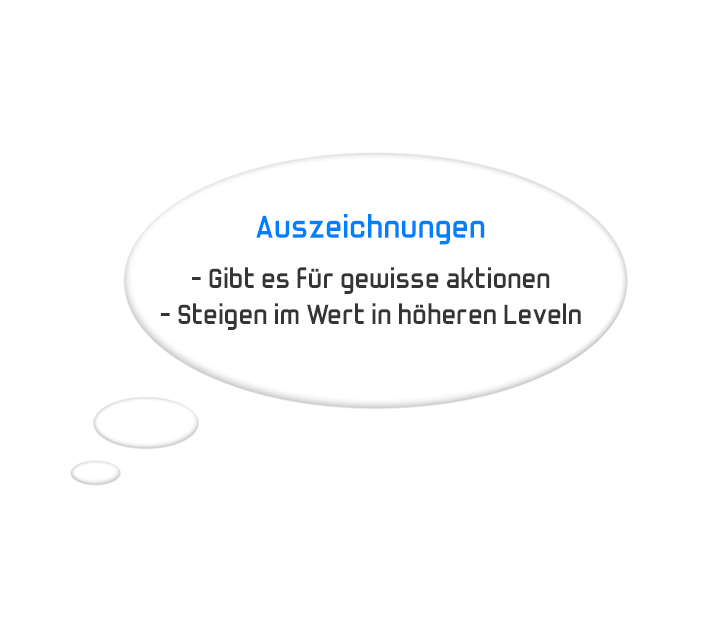
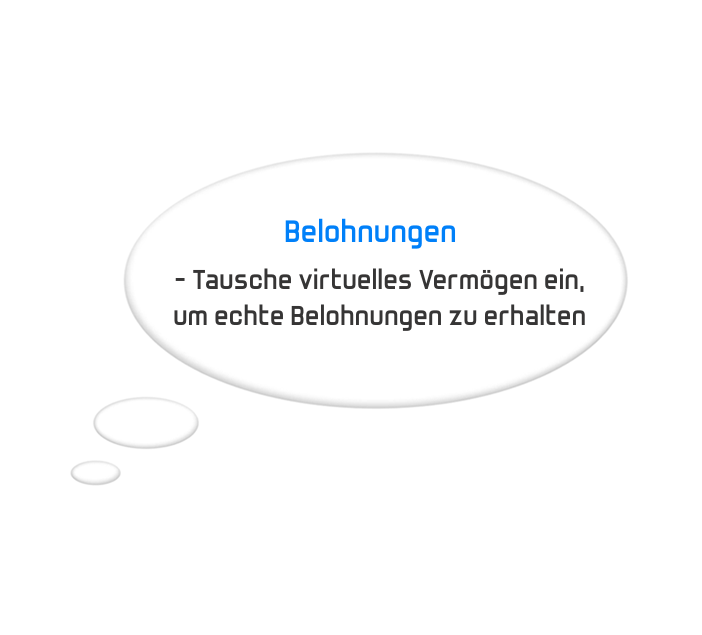
@Khushi Rewards IntroText added, Help text and bubble image managed.

Changed region(s): [[0.2393, 0.4189, 0.8376, 0.5386], [0.359, 0.3291, 0.688, 0.389]]

diff --git a/lib/helper/string_res.dart b/lib/helper/string_res.dart
@@ -2051,7 +2051,7 @@ class StringRes {
       'strAchievement':
       "- Achievements are earned by completing certain task\n- Achievements pay extra Knowledge Points if you reach a new level",
       'strReward':
-      "- Rewards are earned by completing certain task\n- Rewards pay extra Knowledge Points if you reach a new level",
+      "- Redeem Knowledge Points to receive real world rewards",
       'strTeam':
       "- list of your direct reports\n- high level reporting and KPI\n- Allow bailout / reset",
       'strChallenges':
@@ -2485,7 +2485,7 @@ class StringRes {
       'strAchievement':
       "- Gibt es für gewisse Aktionen\n- Steigen im Wert in höheren Leveln",
       'strReward':
-      "- Gibt es für gewisse Aktionen\n- Steigen im Wert in höheren Leveln",
+      "- Tausche Wissenspunkte ein, um echte Belohnungen zu erhalten",
       'strTeam':
       "- Liste der Mitarbeiter im Team\n- Basis Reporting und KPIs\n- Neustarts gewähren",
       'strChallenges':
@@ -2880,7 +2880,7 @@ class StringRes {
       "- 寻找新的问题来回答\n- 每个问题都需要可用的学习和记忆点数\n- 如果您答对了问题，问题重复的次数就会增加",
       'strExistingCustomer': "- 复习您所有正确回答的问题\n- 如果您答对了问题，问题重复的次数就会增加",
       'strAchievement': "- 通过完成某些任务获得奖励\n- 如果您达到新的级别，您将获得额外的知识点数奖励",
-      'strReward': "- 通过完成某些任务获得奖励\n- 如果您达到新的级别，您将获得额外的知识点数奖励",
+      'strReward': "- 兑换知识点数以获得真实世界的奖赏",
       'strTeam': "- 您的直接下属名单\n- 高级别报告和KPI\n- 允许纾困/重置",
       'strChallenges':
       "- 挑战好友\n- 选择%价值，确定问题的数量#和奖励\n- 增加% = 增加要回答的问题的数量\n- 更高％ = 如果对手赢了，他可以赢得更多，如果他输了，您赢得更少",

diff --git a/lib/dialogs/display_dailogs.dart b/lib/dialogs/display_dailogs.dart
@@ -616,8 +616,8 @@ class DisplayDialogs {
         });
   }
 
-  //todo This dialogs only for Reward screen
-  static showIntroRewards(BuildContext context) async {
+  //todo This dialogs only for Achievement screen
+  static showIntroAchievement(BuildContext context) async {
     await Future.delayed(Duration(milliseconds: 50));
     showDialog(
         context: context,
@@ -634,6 +634,29 @@ class DisplayDialogs {
               Navigator.pop(context);
 
               Injector.introData.rewards = 1;
+              await Injector.setIntroData(Injector.introData);
+            },
+          );
+        });
+  }
+
+  static showIntroRewards(BuildContext context) async {
+    await Future.delayed(Duration(milliseconds: 50));
+    showDialog(
+        context: context,
+        builder: (BuildContext context) {
+          return IntroScreenDialog(
+            menuView: false,
+            imageName: "john",
+            titleText: Utils.getText(context, StringRes.rewards),
+            btnName: Utils.getText(context, StringRes.gotIt),
+            desTextLine: Injector.introModel.reward2,
+            btnColor: ColorRes.blue,
+            onTapBtn: () async {
+              Utils.playClickSound();
+              Navigator.pop(context);
+
+              Injector.introData.reward2 = 1;
               await Injector.setIntroData(Injector.introData);
             },
           );

diff --git a/lib/screens/help_screen.dart b/lib/screens/help_screen.dart
@@ -745,7 +745,7 @@ class HelpPageState extends State<HelpPage> {
             child: InkResponse(
               child: Image(
                 image: AssetImage(
-                    Utils.getAssetsImg(introShowBubbleRewards())),
+                    Utils.getAssetsImg(introShowBubbleAchievements())),
                 height: headerBubHeight,
               ),
               onTap: () {},
@@ -1002,6 +1002,16 @@ class HelpPageState extends State<HelpPage> {
       return "intro_bub_existing_customer_de";
     } else if (Injector.userData.language == "Chinese") {
       return "intro_bub_existing_customer_zh";
+    }
+  }
+
+  introShowBubbleAchievements() {
+    if (Injector.userData.language == "English") {
+      return "intro_bub_achievement_en";
+    } else if (Injector.userData.language == "German") {
+      return "intro_bub_achievement_de";
+    } else if (Injector.userData.language == "Chinese") {
+      return "intro_bub_achievement_zh";
     }
   }
 

diff --git a/lib/models/intro_model.dart b/lib/models/intro_model.dart
@@ -22,6 +22,7 @@ class IntroModel {
   String team1;
   String team2;
   String team3;
+  String reward2;
 
   IntroModel(
       {this.learningModule1,
@@ -46,7 +47,9 @@ class IntroModel {
         this.challenge2,
         this.team1,
         this.team2,
-        this.team3});
+        this.team3,
+        this.reward2
+      });
 
   IntroModel.fromJson(Map<String, dynamic> json) {
     learningModule1 = json['learningModule1'];
@@ -72,6 +75,7 @@ class IntroModel {
     team1 = json['team1'];
     team2 = json['team2'];
     team3 = json['team3'];
+    reward2 = json['reward2'];
   }
 
   Map<String, dynamic> toJson() {
@@ -99,6 +103,7 @@ class IntroModel {
     data['team1'] = this.team1;
     data['team2'] = this.team2;
     data['team3'] = this.team3;
+    data['reward2'] = this.reward2;
     return data;
   }
 }

diff --git a/lib/models/intro.dart b/lib/models/intro.dart
@@ -47,6 +47,7 @@ class IntroData {
   int team1;
   int team2;
   int team3;
+  int reward2;
 
   IntroData(
       {this.dashboard,
@@ -72,7 +73,9 @@ class IntroData {
         this.challenge2,
         this.team1,
         this.team2,
-        this.team3});
+        this.team3,
+        this.reward2
+      });
 
   IntroData.fromJson(Map<String, dynamic> json) {
     dashboard = json['dashboard'];
@@ -99,6 +102,7 @@ class IntroData {
     team1 = json['team1'];
     team2 = json['team2'];
     team3 = json['team3'];
+    reward2 = json['reward2'];
   }
 
   Map<String, dynamic> toJson() {
@@ -127,6 +131,7 @@ class IntroData {
     data['team1'] = this.team1;
     data['team2'] = this.team2;
     data['team3'] = this.team3;
+    data['reward2'] = this.reward2;
     return data;
   }
 }

diff --git a/lib/screens/achievement.dart b/lib/screens/achievement.dart
@@ -52,8 +52,8 @@ class _AchievementPageState extends State<AchievementPage> {
   Future showDialogForCallApi() async {
     await Future.delayed(Duration(milliseconds: 50));
 
-//    if (Injector.introData != null && Injector.introData.rewards == 0)
-      await DisplayDialogs.showIntroRewards(context);
+    if (Injector.introData != null && Injector.introData.rewards == 0)
+      await DisplayDialogs.showIntroAchievement(context);
 
     Utils.isInternetConnectedWithAlert(context).then((isConnected) {
       getAchievements();

diff --git a/lib/screens/rewards.dart b/lib/screens/rewards.dart
@@ -40,7 +40,7 @@ class _RewardsPageState extends State<RewardsPage> {
   Future showDialogForCallApi() async {
     await Future.delayed(Duration(milliseconds: 50));
 
-    if (Injector.introData != null && Injector.introData.rewards == 0)
+    if (Injector.introData != null && Injector.introData.reward2 == 0)
       await DisplayDialogs.showIntroRewards(context);
 
     Utils.isInternetConnectedWithAlert(context).then((isConnected) {

diff --git a/lib/screens/help_pro_screen.dart b/lib/screens/help_pro_screen.dart
@@ -270,7 +270,6 @@ class _HelpProScreenState extends State<HelpProScreen> {
         Utils.getText(context, StringRes.strExistingCustomer));
 
 
-    //TODO change strReward based on achievement text from client
     if (Utils.isFeatureOn(Const.typeAchievement)) {
       addInModel(Utils.getText(context, StringRes.achievement),
           "ic_pro_home_achievement", Utils.getText(context, StringRes.strAchievement));
